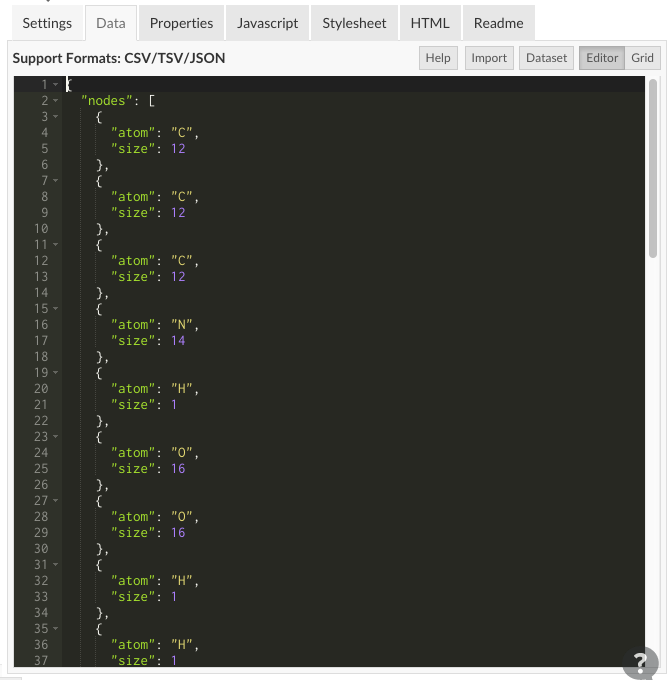
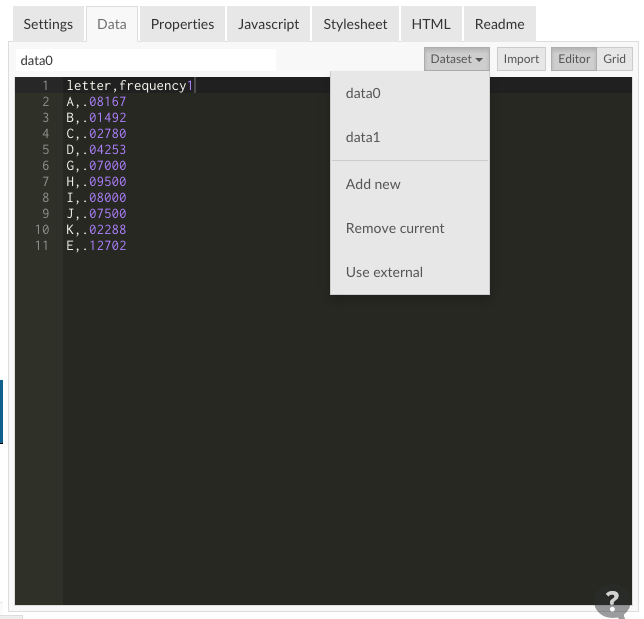
Add multi datasets documentation

diff --git a/source/includes/_d3.md b/source/includes/_d3.md
@@ -95,9 +95,29 @@ To better understand, one may print the structure in debug console.
 
 This data tab has the editor shown as default. A grid can be viewed (non-editable) once data is saved first.
 
-A d3 document can utilize a dataset document as its own data by setting a dataseting in this tab.
+A d3 document can utilize an external dataset document as its own data. This option can be accessed under Data > Dataset > Use external.
 If a dataset is selected, all current document data will be removed. 
 If a dataset is removed, the current data from dataset document is copied to the current d3 document.
+
+### Data - Multiple datasets 
+
+A document may have mutiple internal datasets that can be added under **Data > Dataset > Add new**.
+
+When adding a new dataset, all current data structure will be moved to *data['data0']*. A dataset data can be accessed using the format *data['datasetName']*.
+This datasetName has a default name as *dataN* with N being the number of datasets that exist in the document. The default *datasetName* can be changed by clicking on the datasetName field to the left. 
+datasetName convention follows a file name convention which includes alphabets, numbers, spaces, dash and underscore.
+
+A currently viewing dataset can be removed using the option **Data > Dataset > Remove current**. This option is unavailable if the document has only 1 dataset.
+
+A document can only have a maximum of 10 datasets.
+
+When switching to an external dataset, all current datasets will be removed. Upon switching back to using internal dataset, all data will be copied over as the sole and only dataset for the document.
+
+Besides, Auto properties detection for axis is applied on the first or primary dataset only.
+
+**Notes:**
+
+* Auto properties data column detection will only apply for the first dataset in multiple datasets.
 
 ### Properties
 <a href="images/d3/prop-tab.png" data-lightbox="d3-document" data-title="New Document" style="display: block; float:right;">
@@ -120,6 +140,7 @@ There are five (5) supported types based on javascript types:
 * Properties can be changed only by document owner and shared users with edit access.
 * A template child cannot change its properties. They're only available for the template document.
 * When a property changes, the document will be saved and re-rendering will be triggered automatically .
+* Data column properties will be automatically detected when there's any change from the data column from Data tab.
 
 ### Javascript
 <a href="images/d3/javascript-tab.png" data-lightbox="d3-document" data-title="New Document" style="display: block; float:right;">
